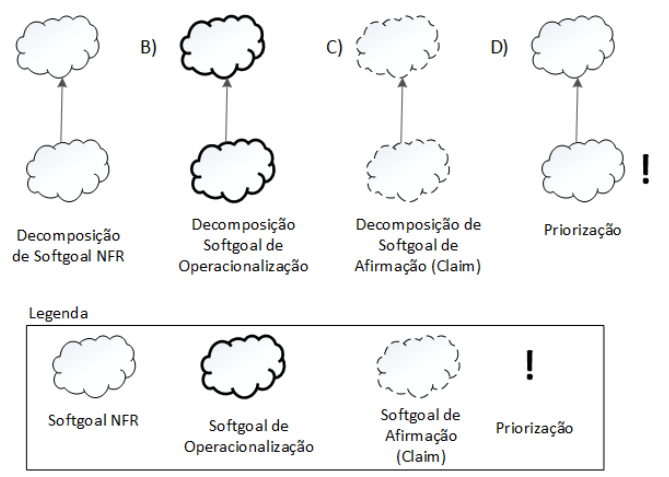
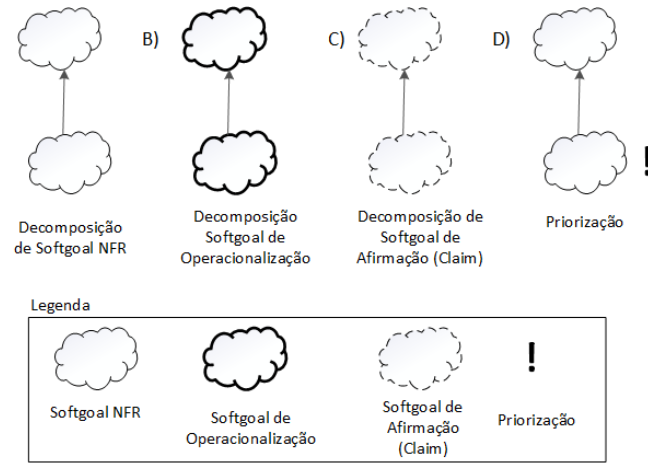
docs: adiciona pagina nfr revisada

diff --git a/docs/Modelagem/Modelagem Ágil/02-NFR.md b/docs/Modelagem/Modelagem Ágil/02-NFR.md
@@ -1,3 +1,5 @@
+# **NFR Framework**
+
 ## **Introdução**
 
 De acordo com Chung et al<a id="anchor_1" href="#REF1"><sup>1</sup></a>, o NFR Framework auxilia os desenvolvedores na abordagem dos requisitos não funcionais, permitindo sua expressão explícita, tratamento sistemático e utilização como diretrizes para conduzir o processo de desenvolvimento de forma racional. O NFR Framework emprega requisitos não funcionais (RNFs) para orientar o processo de design geral, dando prioridade aos requisitos não funcionais. Seu principal propósito é fornecer uma estrutura de representação para armazenar o design e a lógica por trás do desenvolvimento de requisitos.
@@ -11,7 +13,7 @@ Os softgoals consistem em objetivos que não possuem uma definição clara nem p
 Existem três categorias de softgoals conhecidas como: Softgoals NFR, Softgoals de Operacionalização e Softgoals de Afirmação. Cada uma delas é explicada a seguir:
 <br><br>
 <center>
-<img src="../assets/tiposSoftgoals.png">
+<img src="../assets/tiposSoftgoals.png" width= "700px">
 </center>
 <font size="3"><b><p style="text-align: center">Figura 1: Tipos de Softgoals (Fonte: CHUNG et al, 2000)</b></font>
 <br><br>
@@ -22,18 +24,6 @@ Existem três categorias de softgoals conhecidas como: Softgoals NFR, Softgoals 
 
 **Softgoals de Afirmação:**  permitem que as características do domínio, como prioridades e carga de trabalho, sejam consideradas e adequadamente incorporadas ao processo de tomada de decisão. Eles servem como justificativas para apoiar ou contestar a forma como os softgoals são priorizados, refinados e os componentes são selecionados. Os softgoals de afirmação oferecem razões para as decisões de desenvolvimento, tornando mais fácil a revisão, a justificação e a modificação do sistema, bem como a melhoria da rastreabilidade (CHUNG et al., 2000).
 
-### **Propagação de impactos**
-
-A avaliação determina o grau de atendimento dos requisitos não funcionais, utilizando etiquetas como "satisfeito", "parcialmente satisfeito", "parcialmente não atendido", "não atendido", "conflitante" ou "indeterminado". A Figura 2, do artigo de Silva<a id="anchor_1" href="#REF1"><sup>1<sup></a>, exemplifica essas etiquetas e serve como guia para os requisitos não funcionais apresentados no documento.
-
-<br><br>
-<center>
-<img src="../assets/nft-impactos.png">
-</center>
-<font size="3"><b><p style="text-align: center">Figura 2: Propagação de impactos (Fonte: CHUNG et al, 2000)</b></font>
-<br><br>
-
-
 ### **Softgoal Interdependency Graph (SIG)**
 
 O NFR framework envolve a criação de um diagrama chamado "Softgoal Interdependency Graph (SIG)" para registrar as interdependências entre softgoals. Esse gráfico contém informações sobre as decisões de desenvolvimento, incluindo Requisitos Não-Funcionais, alternativas e justificativas. Ele permite verificar se os requisitos de alto nível estão sendo atendidos por meio de um procedimento de avaliação.
@@ -41,20 +31,14 @@ O NFR framework envolve a criação de um diagrama chamado "Softgoal Interdepend
 ### **Interdependências**
 
 <center>
-<img src="../assets/decomposicao.png">
+<img src="../assets/decomposicao.png" width= "700px">
 </center>
-<font size="3"><b><p style="text-align: center">Figura 3: Decomposição de Softgoals (Fonte: CHUNG et al, 2000)</b></font>
+<font size="3"><b><p style="text-align: center">Figura 2: Decomposição de Softgoals (Fonte: CHUNG et al, 2000)</b></font>
 <br><br>
 
 As interdependências estabelecem as relações entre os softgoals. São dividas em:
 
-**Refinamentos:** no NFR framework, os refinamentos são usados para estabelecer relações entre softgoals, sendo de quatro tipos: **decomposição NFR, operacionalização**, **afirmação** e **priorização**. Abaixo um breve resumo sobre cada um:
-
-- Decomposição de Softgoal NFR: Essa técnica que permite uma melhor organização e compreensão dos softgoals NFR.
-- Decomposição de Operacionalização: Essa técnica possibilita a definição de uma solução geral e a criação de casos mais especificos.
-- Decomposição de Afirmação (Claims): Essa técnica permite reafirmar ou negar as justificativas específicas do projeto.
-- Priorização: Essa é um tipo especial de separação, na qual um softgoal é refinado em outro softgoal com o mesmo tipo e tópicos, mas com uma prioridade associada.
-
+**Refinamentos:** no NFR framework, os refinamentos são usados para estabelecer relações entre softgoals, sendo de quatro tipos: **decomposição NFR, operacionalização**, **afirmação** e **priorização**. A **decomposição** divide softgoals principais em mais específicos, a **operacionalização** define técnicas para atingir requisitos não funcionais, a **afirmação** apoia ou nega justificativas específicas do projeto e a **priorização** refina um softgoal em outro de mesmo tipo e tópico, poŕem com uma prioridade associada. Esses refinamentos ajudam a estruturar e analisar requisitos não funcionais em projetos.
 
 **Contribuições**: os softgoals passam por refinamentos durante o projeto, onde softgoals descendentes podem influenciar os ascendentes de várias maneiras, como positiva, negativa ou parcialmente. Isso significa que a satisfação de um softgoal não é necessariamente absoluta, mas dentro de limites aceitáveis. Esse refinamento são especificações dos softgoals e são contribuições e existem dez tipos. Esses são:
 
@@ -72,7 +56,7 @@ As interdependências estabelecem as relações entre os softgoals. São dividas
 | *EQUAL* | Ambos compartilham o mesmo label| =| 
 
 <div align="center">
-Tabela 1: Contribuições - Fonte: BARBOSA, Gabriel
+Tabela 1: Refinamento, Fonte: BARBOSA. Gabriel
 </div>
 
 ## **Requisitos não-funcionais** 
@@ -117,28 +101,12 @@ Após analisar os requisitos elicitados, épossível perceber que os requisitos 
 
 Estes requisitos servirão como base para o uso do framework NFR.
 
-## **Legenda**
-### **Softgoals**
-<div align="center">
-<img src="../assets/LEG1.png">
-</div>
-<div align="center">
-Figura 4: Legenda - Fonte: BRAGA, Caio. DE FRIAS, Miguel
-</div>
- 
-### **Rótulos**
-<div align="center">
-<img src="../assets/LEG2.png">
-</div>
-<div align="center">
-Figura 5: Legenda - Fonte: CHUNG et al, 2000
-</div>
 
 ## **Confiabilidade**
 
 ### **Sem Propagação**
 <div align="center">
-<img src="../assets/Conf.png">
+<img src="../assets/Conf1.png" width= "700px">
 </div>
 <div align="center">
 Figura 6: Confiabilidade sem Propagação - Fonte: BRAGA, Caio. DE FRIAS, Miguel
@@ -147,10 +115,10 @@ Figura 6: Confiabilidade sem Propagação - Fonte: BRAGA, Caio. DE FRIAS, Miguel
 ### **Com Propagação**
 
 <div align="center">
-<img src="../assets/Conf2.png">
+<img src="../assets/Conf2.png" width= "700px">
 </div>
 <div align="center">
-Figura 7: Confiabilidade com Propagação - Fonte: 
+Figura 7: Confiabilidade com Propagação - Fonte: BRAGA, Caio. DE FRIAS, Miguel
 </div>
 
 ### **Cartão de Especificação**
@@ -164,15 +132,15 @@ Figura 7: Confiabilidade com Propagação - Fonte:
 | Conflito              | Nenhum |
 | Historia              |  06 de nov. 2023 |
 
-
-<font size="3"><p style="text-align: center"><b>Fonte:</b> <a href="https://github.com/caioalvesbaga">Caio Braga</a>, 2023</p></font>
+<div align="center">
+Tabela 3: Cartão de especificação "Confiabilidade" - Fonte: BRAGA, Caio. DE FRIAS, Miguel
 </div>
 
 ## **Performance**
 
 ### **Sem Propagação**
 <div align="center">
-<img src="../assets/Perf1.png">
+<img src="../assets/Perf1.png" width= "700px">
 </div>
 <div align="center">
 Figura 8: Performance sem Propagação - Fonte: BARBOSA, Gabriel
@@ -181,7 +149,7 @@ Figura 8: Performance sem Propagação - Fonte: BARBOSA, Gabriel
 ### **Com Propagação**
 
 <div align="center">
-<img src="../assets/Perf2.png">
+<img src="../assets/Perf2.png" width= "700px">
 </div>
 <div align="center">
 Figura 9: Performance com Propagação - Fonte: BARBOSA, Gabriel
@@ -197,11 +165,15 @@ Figura 9: Performance com Propagação - Fonte: BARBOSA, Gabriel
 | Prioridade            | Alta prioridade |
 | Conflito              | Nenhum |
 
+<div align="center">
+Tabela 4: Cartão de especificação "Performance" - BARBOSA, Gabriel
+</div>
+
 ## **Portabilidade**
 
 ### **Sem Propagação**
 <div align="center">
-<img src="../assets/Port1.png">
+<img src="../assets/Port1.png" width= "700px">
 </div>
 <div align="center">
 Figura 10: Portabilidade sem Propagação - Fonte: BRAGA, Caio
@@ -210,14 +182,14 @@ Figura 10: Portabilidade sem Propagação - Fonte: BRAGA, Caio
 ### **Com Propagação**
 
 <div align="center">
-<img src="../assets/Port2.png">
+<img src="../assets/Port2.png" width= "700px">
 </div>
 <div align="center">
 Figura 11: Portabilidade com Propagação - Fonte: BRAGA, Caio
 </div>
 
 ### **Cartão de Especificação**
-| Classificação         | Confiabilidade | 
+| Classificação         | Portabilidade | 
 | ----------------------|--|
 | Descrição             | Este softgoal refere-se à capacidade de executar ou mover o sistema de um ambiente ou plataforma para outro sem a necessidade de grandes modificações. Isso permite que o software seja utilizado em diferentes dispositivos ou sistemas operacionais, facilitando a adaptação e reutilização.  |
 | Justificativa         | A portabilidade é fundamental para a experiência dos usuários, uma vez que o aplicativo será utilizados nos mais diversos dispositivos |
@@ -226,12 +198,17 @@ Figura 11: Portabilidade com Propagação - Fonte: BRAGA, Caio
 | Prioridade            | Alta prioridade |
 | Conflito              | Nenhum |
 
+<div align="center">
+Tabela 5: Cartão de especificação "Portabilidade" - BRAGA,  Caio
+</div>
+
+
 
 ## **Usabilidade**
 
 ### **Sem Propagação**
 <div align="center">
-<img src="../assets/Usab1.png">
+<img src="../assets/Usab1.jpg" width= "700px">
 </div>
 <div align="center">
 Figura 12: Usabilidade sem Propagação - Fonte: DE FRIAS, Miguel
@@ -240,7 +217,7 @@ Figura 12: Usabilidade sem Propagação - Fonte: DE FRIAS, Miguel
 ### **Com Propagação**
 
 <div align="center">
-<img src="../assets/Usab2.png">
+<img src="../assets/Usab2.jpg" width= "700px">
 </div>
 <div align="center">
 Figura 13: Usabilidade com Propagação - Fonte: DE FRIAS, Miguel
@@ -256,6 +233,10 @@ Figura 13: Usabilidade com Propagação - Fonte: DE FRIAS, Miguel
 | Prioridade            | Alta prioridade |
 | Conflito              | Nenhum |
 
+<div align="center">
+Tabela 6: Cartão de especificação "Usabilidade" - DE FRIAS, Miguel
+</div>
+
 
 ## **Bibliografia**
 > PAIM, F. R. S., CASTRO, J. F. B. Enhancing Data Warehouse Design with the NFR Framework. Centro de Informática UFPE, Recife, 2019. Disponível em: http://wer.inf.puc-rio.br/WERpapers/artigos/artigos_WER02/paim.pdf. Acesso em: 06/11/2023
@@ -267,6 +248,8 @@ Figura 13: Usabilidade com Propagação - Fonte: DE FRIAS, Miguel
 ><a id="REF2" href="#anchor_2">[2]</a> SILVA, R. NFR4ES: Um Catálogo de Requisitos Não-Funcionais para Sistemas Embarcados. Tese (Mestrado em Engenharia de Software) - Centro de Informática, Universidade Federal de Pernambuco. Recife, p. 155. 2019. Acesso em: 03 de novembro de 2023
 
 > <a id="REF2" href="#anchor_3">[3]</a>SOMMERVILLE, Ian. Engenharia de Software. 9ª edição. São Paulo: Pearson, 2011. Acesso em 05 de novembro de 2023
+
+
 
 ## **Histórico de Versões**
 
